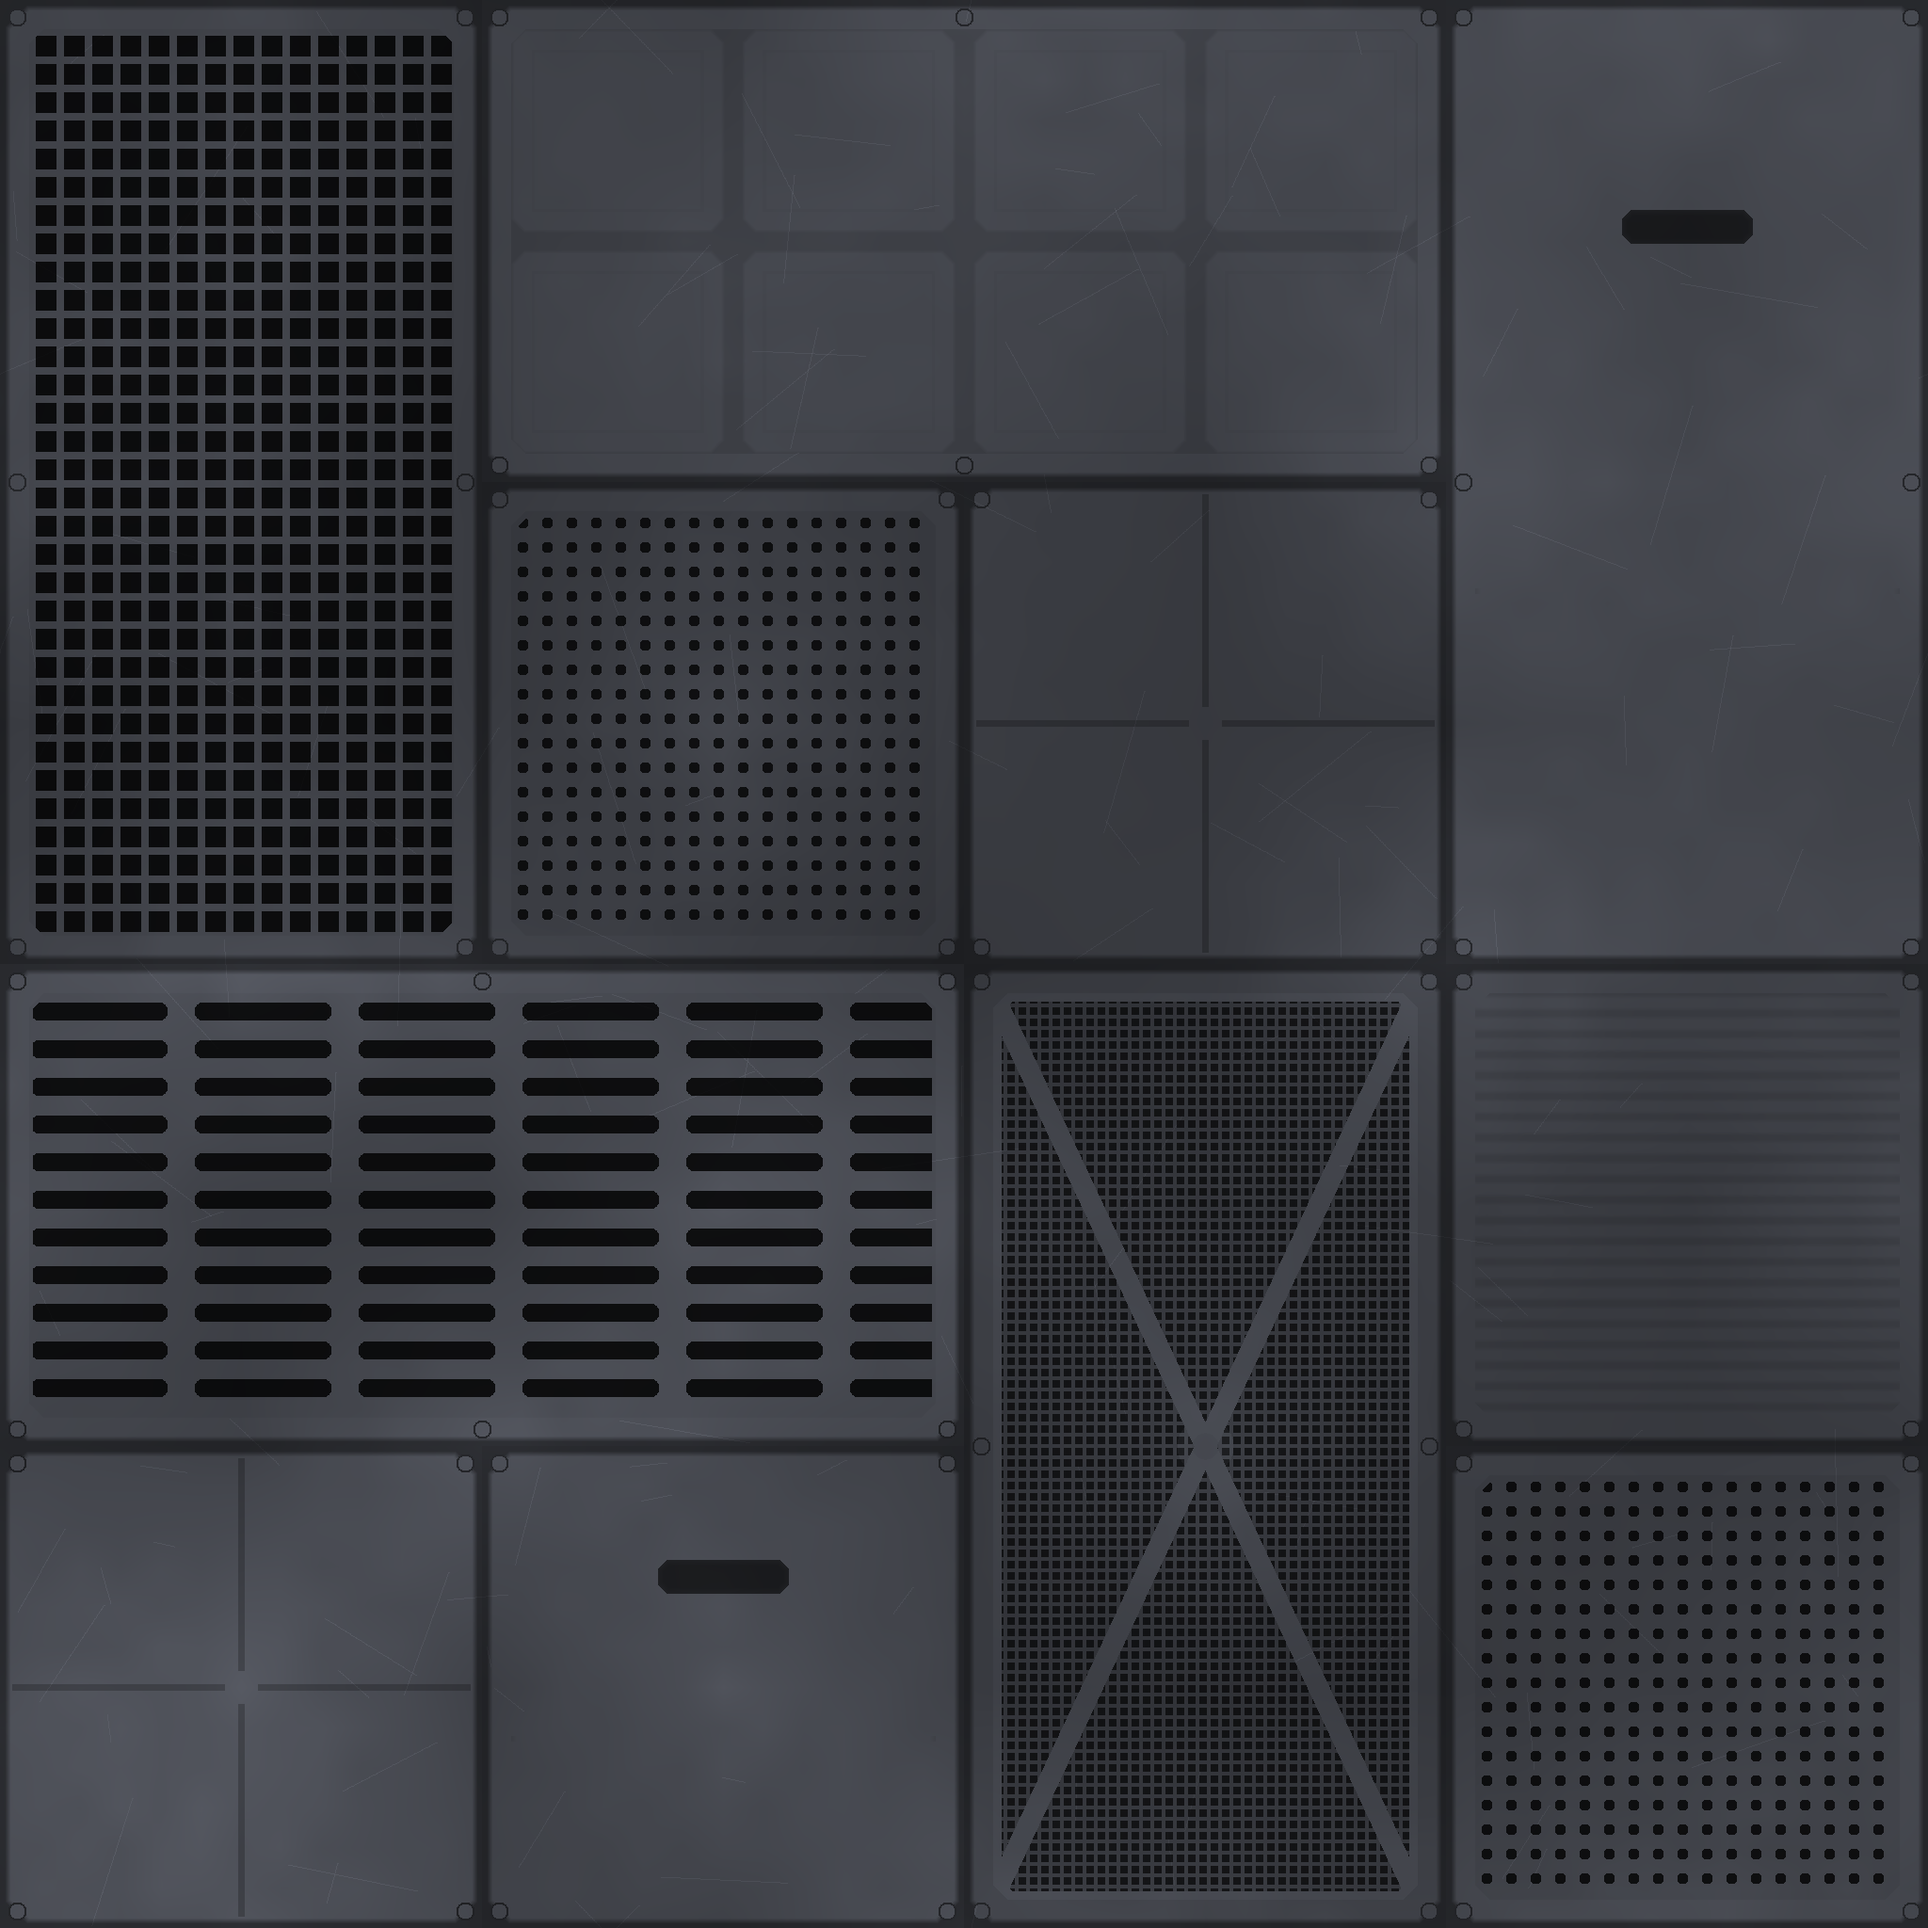
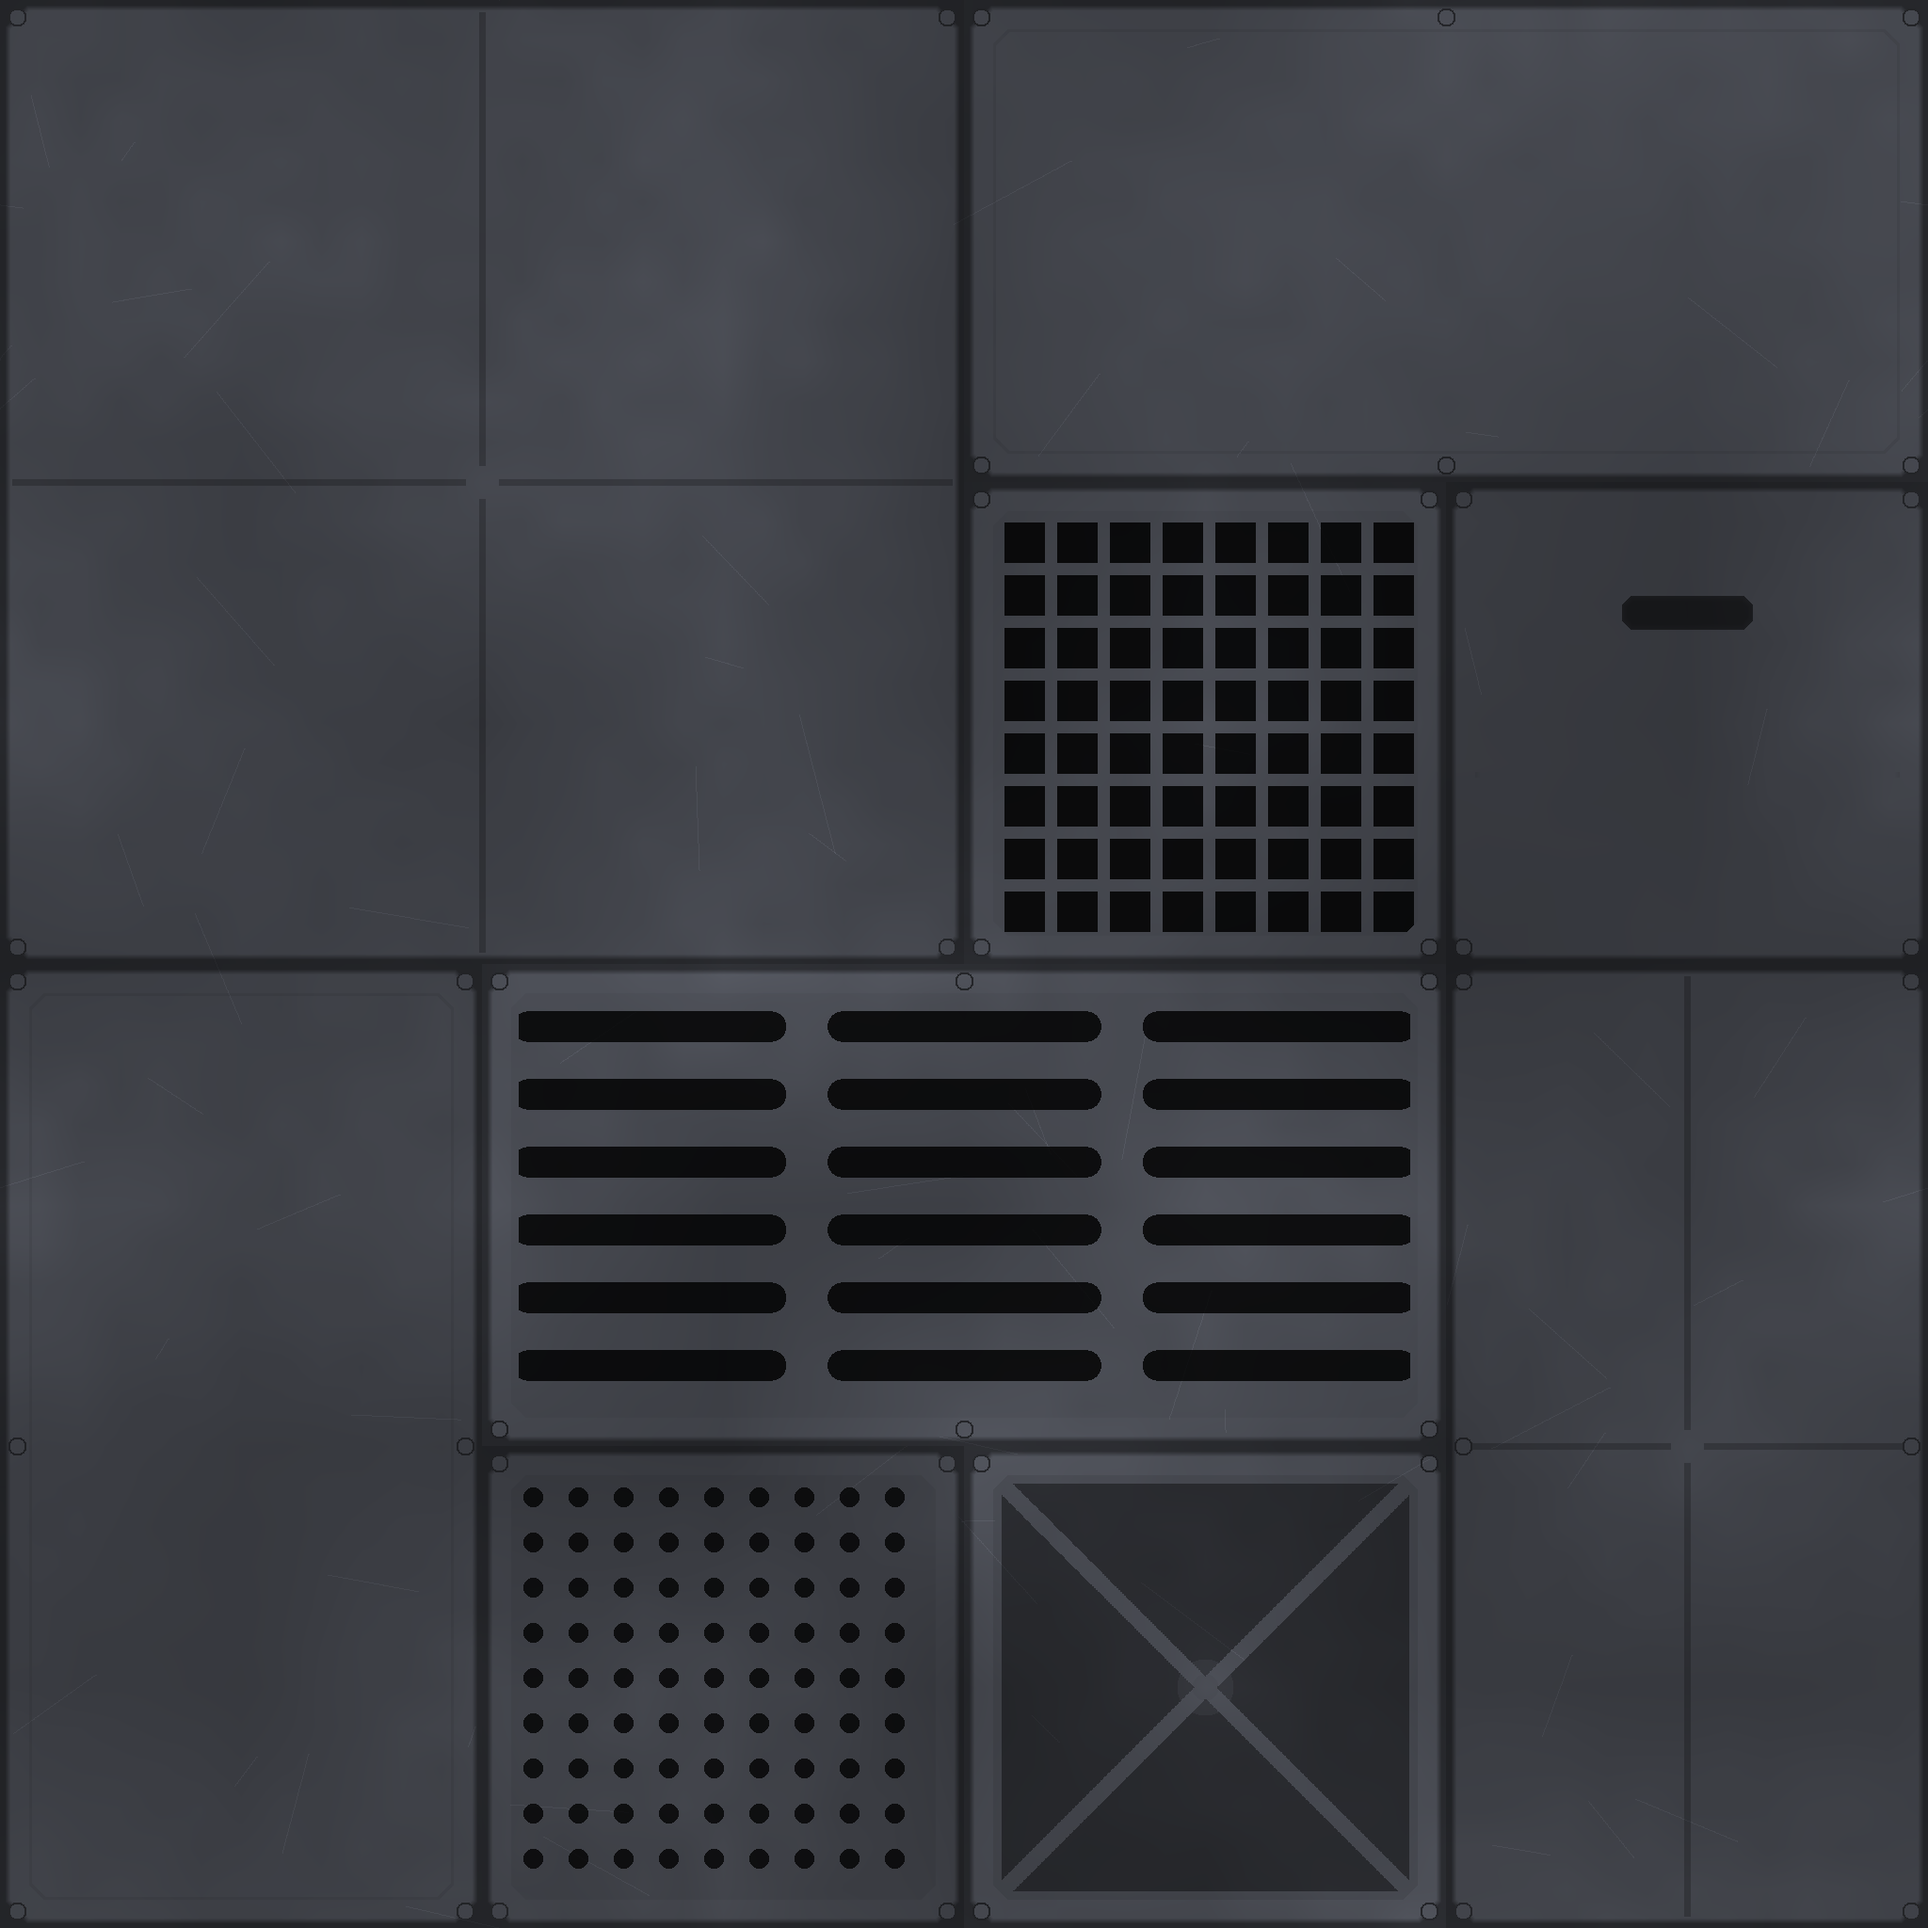
Virtual Office: a calmer floor
Mostly plain plates and quarters now, with one grate, one drilled plate,
one set of vent slots, a hatch and an X brace per 4 m tile; bigger holes
and slots, no fine mesh, fewer scratches.

Claude-Session: https://claude.ai/code/session_01XCX4t6qb2ZGwDHS6PU9twv

diff --git a/tools/office-kit/build_kit.py b/tools/office-kit/build_kit.py
@@ -241,14 +241,13 @@ def smooth_noise(rng, n, size):
     return rows[:, i0] * (1 - fx) + rows[:, i1] * fx
 
 
-# Floor plates: a 4 m sheet of sci-fi deck panels (grates, perforated plates,
-# vent slots, ribs, X-braced mesh, hatches, bolted quarters) drawn as a height
-# field; draw_floor colours it, draw_floor_normal makes its normal map.
-FLOOR_PANELS = [  # (x0, y0, x1, y1) in 0.5 m cells of the 4 m sheet, the kind
-    (0, 0, 2, 4, 'grate'), (2, 0, 6, 2, 'squares'), (6, 0, 8, 4, 'hatch'),
-    (2, 2, 4, 4, 'perf'), (4, 2, 6, 4, 'quarters'),
-    (0, 4, 4, 6, 'slots'), (4, 4, 6, 8, 'xbrace'), (6, 4, 8, 6, 'ribs'),
-    (0, 6, 2, 8, 'quarters'), (2, 6, 4, 8, 'hatch'), (6, 6, 8, 8, 'perf'),
+# Floor plates: a 4 m sheet of sci-fi deck panels, mostly plain and bolted
+# quarters, with a grate, drilled holes, vent slots, a hatch and an X brace,
+# drawn as a height field; draw_floor colours it, draw_floor_normal makes its normal map.
+FLOOR_PANELS = [  # (x0, y0, x1, y1) in 0.5 m cells of the 4 m sheet, the kind; mostly plain plates
+    (0, 0, 4, 4, 'quarters'), (4, 0, 8, 2, 'plain'), (4, 2, 6, 4, 'grate'), (6, 2, 8, 4, 'hatch'),
+    (0, 4, 2, 8, 'plain'), (2, 4, 6, 6, 'slots'), (6, 4, 8, 8, 'quarters'),
+    (2, 6, 4, 8, 'perf'), (4, 6, 6, 8, 'xbrace'),
 ]
 _floor = {}
 
@@ -282,39 +281,29 @@ def floor_fields(size):
         di = inset(Xi, Yi, wi, hi, 16)
         inner = di > 0
         if kind == 'grate':  # square holes between bars
-            s = 30
-            hole = inner & ((Xi % s) > 7) & ((Yi % s) > 7)
+            s = 56
+            hole = inner & ((Xi % s) > 12) & ((Yi % s) > 12)
             h_[inner] = .5
             h_[hole] = .08
             s_[hole] = .25
         elif kind == 'perf':  # a frame with drilled holes
             h_[inner] = np.minimum(h_[inner], .48)
-            s = 26
+            s = 48
             r2 = ((Xi % s) - s / 2) ** 2 + ((Yi % s) - s / 2) ** 2
-            hole = (di > 6) & (r2 < 36)
+            hole = (di > 10) & (r2 < 110)
             h_[hole] = .12
             s_[hole] = .3
         elif kind == 'slots':  # rows of rounded vent slots
             h_[inner] = .5
-            sh, sw = 40, 150
-            ly, lx = Yi % sh, Xi % (sw + 24)
-            cx = np.clip(lx, 12, sw - 12)
-            slot = (di > 4) & ((lx - cx) ** 2 + (ly - sh / 2) ** 2 < 100) & (lx < sw)
+            sh = 72
+            sw = (wi + 40) / max(1, round((wi + 40) / 300)) - 40  # whole slots across
+            ly, lx = Yi % sh, Xi % (sw + 40)
+            cx = np.clip(lx, 18, sw - 18)
+            slot = (di > 8) & ((lx - cx) ** 2 + (ly - sh / 2) ** 2 < 260) & (lx < sw)
             h_[slot] = .1
             s_[slot] = .3
-        elif kind == 'ribs':  # raised ribs across the panel
-            t = np.abs(((Yi % 22) / 22) - .5) * 2
-            h_[inner] = (.44 + .14 * np.clip((1 - t) * 2 - .4, 0, 1))[inner]
-        elif kind == 'squares':  # a grid of raised chamfered squares
-            h_[inner] = .42
-            sy = (hi + 18) / 2
-            sx = (wi + 18) / round((wi + 18) / sy)
-            qy, qx = Yi % sy, Xi % sx
-            q = inset(qx, qy, sx - 18, sy - 18, 14)
-            sq = inner & (q > 0)
-            h_[sq] = .42 + np.clip(q[sq] / 5, 0, 1) * .16
-            sm = inner & (q > 22) & (q < 26)
-            h_[sm] -= .06  # an inset line in each square
+        elif kind == 'plain':  # a plate with one inset line
+            h_[inner & (di < 4)] -= .08
         elif kind == 'quarters':  # four plates and a cross seam
             gx, gy = np.abs(X - w / 2), np.abs(Y - h / 2)
             seam = (np.minimum(gx, gy) < 4) & (d > 12)
@@ -332,11 +321,9 @@ def floor_fields(size):
             s_[hole] = .55
             lines = inner & (np.abs(Yi - hi * .62) < 3)
             h_[lines] -= .1
-        elif kind == 'xbrace':  # mesh under an X brace with a hub
-            fine = inner & ((Xi % 12) > 3) & ((Yi % 12) > 3)
-            h_[inner] = .4
-            h_[fine] = .18
-            s_[fine] = .4
+        elif kind == 'xbrace':  # an X brace and hub over a recessed plate
+            h_[inner] = .36  # a recessed plate under the brace
+            s_[inner] = .7
             u, v = Xi / wi, Yi / hi
             bar = inner & ((np.abs(u - v) * min(wi, hi) < 12) | (np.abs(u + v - 1) * min(wi, hi) < 12) |
                            (np.minimum(di, 99) < 10))
@@ -357,7 +344,7 @@ def floor_fields(size):
     # wear: scuffs lighten, grime darkens the low parts
     grime = .78 + .35 * smooth_noise(rng, 8, size) * (.7 + .3 * smooth_noise(rng, 48, size))
     S *= grime * (.55 + .45 * np.clip(H / .55, 0, 1))
-    for _ in range(160):
+    for _ in range(70):
         x0, y0 = rng.integers(0, size), rng.integers(0, size)
         ang, L = rng.random() * np.pi, rng.integers(20, 160)
         t = np.arange(L)

diff --git a/docs/office-kit.md b/docs/office-kit.md
@@ -21,9 +21,9 @@ build them in `tools/office-kit/`.
   `Ext` (outside the windows). A node's mesh has the node's name.
 - Floors and walls are textured: `RS_Floor` (`RS_Trim_Floor.png` and its
   normal map `RS_Trim_Floor_Normal.png`, both from one height field: a 4 m
-  sheet of deck panels, 0.5 m to 2 m, each a bolted, bevelled plate holding
-  a grate, drilled holes, vent slots, ribs, raised squares, a hatch or an
-  X-braced mesh; scratches and grime; 4 m per repeat) and `RS_Wall`
+  sheet of bolted, bevelled deck panels, 1 m to 2 m: mostly plain plates
+  and quarters, one each with a grate, drilled holes, vent slots, a hatch
+  and an X brace; scratches and grime; 4 m per repeat) and `RS_Wall`
   (`RS_Trim_Wall.png`: 1 m × 0.5 m panels, a vent, a hatch, grime streaks,
   2 m per repeat); the export projects their UVs along each face's main
   axis in the piece's own coordinates, so pieces on
